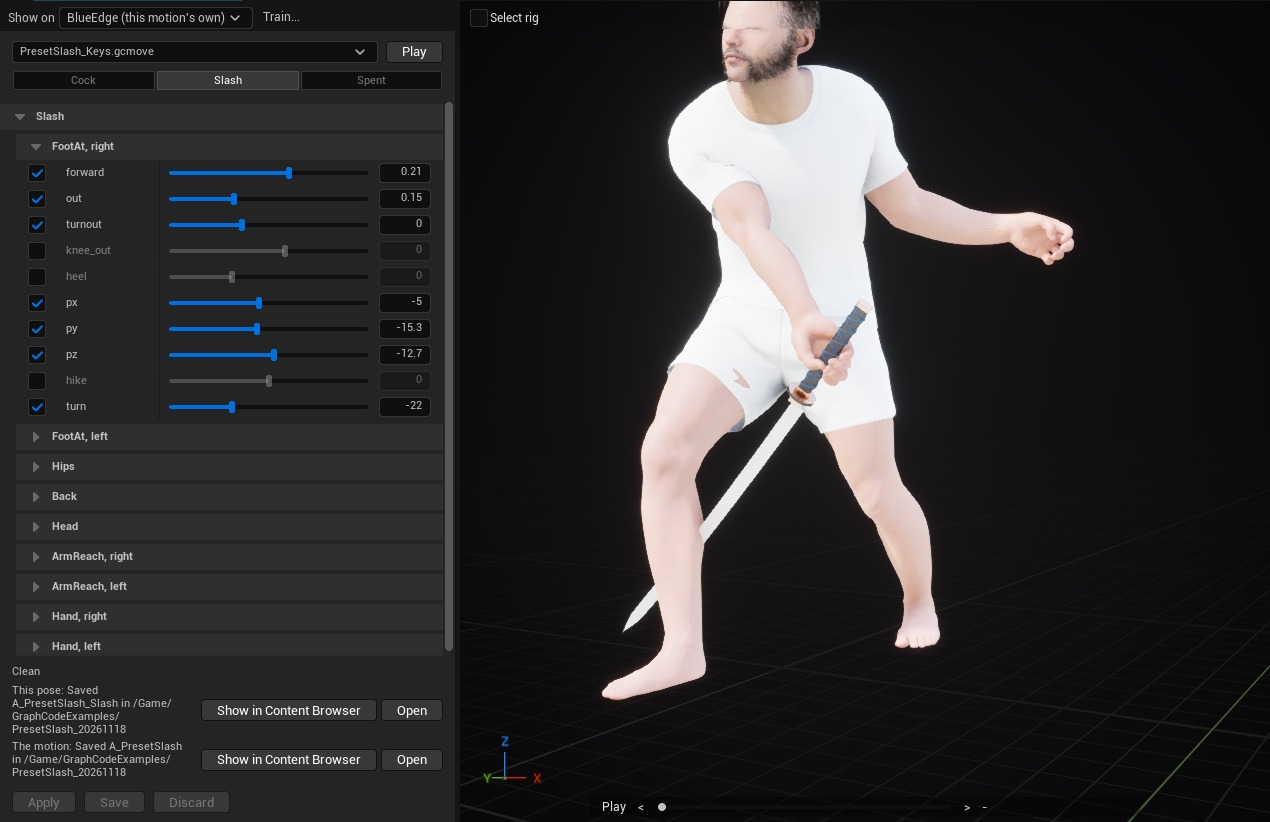
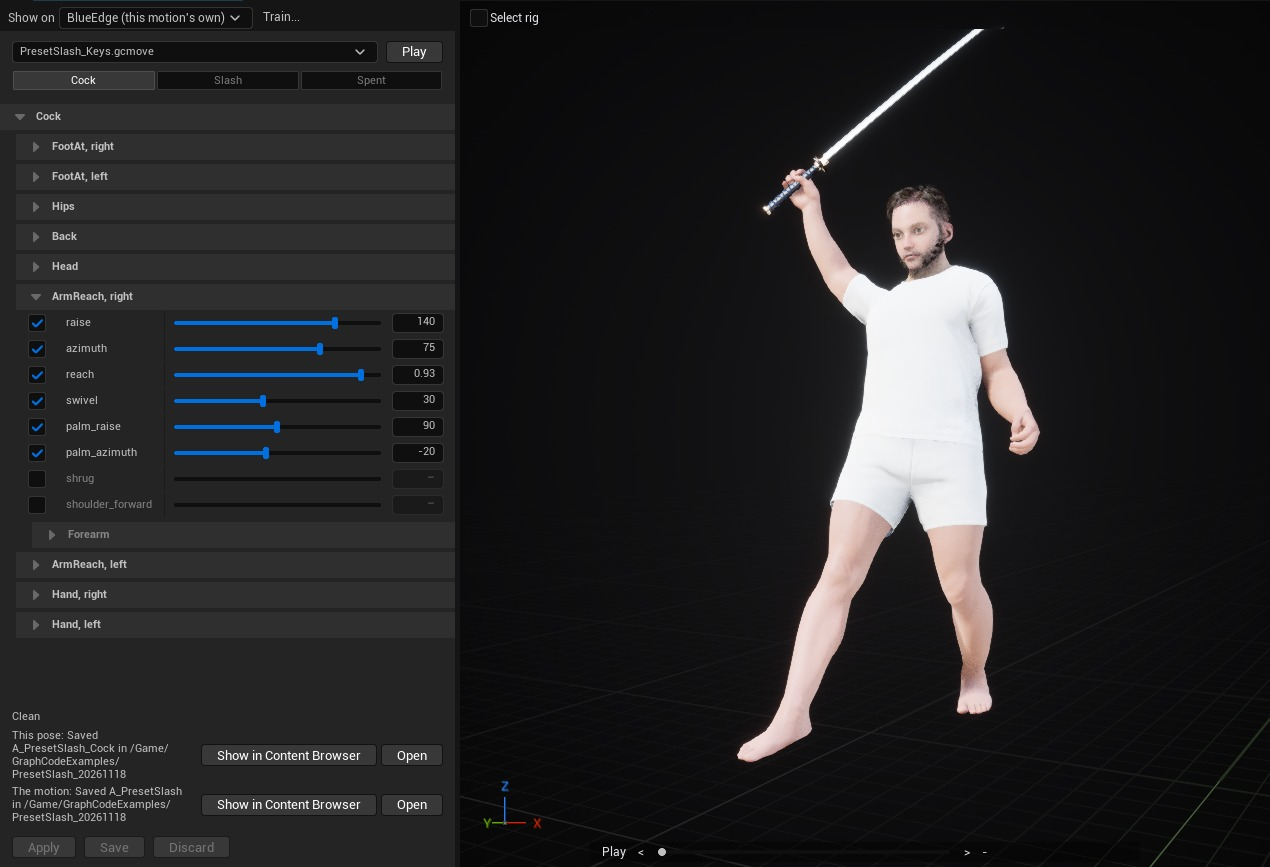
README: better module pictures (river town, airship over the city, street crowd, daylight test run, a cleaner Pose panel), AI-human collaboration on one motion, built in Unreal not imported, problem 7 (remembers your project), history without Git, seven new FAQ answers, accurate packaging line

diff --git a/README.md b/README.md
@@ -43,7 +43,7 @@ it makes real Unreal assets, shows you renders and test runs, and every change c
 |---|---|
 | [Made with GraphCode](#made-with-graphcode) | Things it has built. |
 | [How it works](#how-it-works) | What a session with your AI looks like. |
-| [Why GraphCode](#why-graphcode-what-goes-wrong-when-an-ai-drives-unreal-and-how-graphcode-fixes-it) | The six problems with an AI driving Unreal through a free MCP server or Blender MCP, and how GraphCode fixes each. |
+| [Why GraphCode](#why-graphcode-what-goes-wrong-when-an-ai-drives-unreal-and-how-graphcode-fixes-it) | The seven problems with an AI driving Unreal through a free MCP server or Blender MCP, and how GraphCode fixes each. |
 | [Get started](#get-started) | The setup in five steps, and the full guide. |
 | [What your AI can build](#what-your-ai-can-build) | Each of the ten products: a picture, an example, why it beats the alternative, and everything it can do. |
 | [Trial and licence](#trial-and-licence) · [Trust and privacy](#trust-and-privacy) · [Questions](#questions) | Before you buy. |
@@ -83,8 +83,7 @@ All packs: [docs/MARKET.md](docs/MARKET.md). Case studies with films and samples
 
 ## How it works
 
-1. **You ask** in plain words: *"Put an oval glass dome on the hall."* *"Give the cat a thick grey coat."*
-   *"Add a reload key to the gun and show the ammo on the HUD."*
+1. **You ask** in plain words: *"Put an oval glass dome on the hall."* *"Give the cat a thick grey coat."* The first time, your AI reads your project, asks how hands-on you want to be, and writes your answers down so you never repeat them.
 2. **The AI builds it** inside your Unreal editor, as real assets: Blueprints, levels, meshes,
    materials, animations, effects. It reads the relevant guide first, tries the change before making it,
    then renders it and plays it to check, and fixes what it sees.
@@ -102,7 +101,7 @@ a working Blueprint is not saved, and anything it deletes goes to a trash folder
 You can already connect an AI to Unreal for free: community MCP servers, Epic's own experimental Unreal
 MCP, or Blender MCP with an export to Unreal. They give your AI **verbs**: spawn an
 actor, set a property, add a node, run some Python, take a screenshot. That is enough to block out a
-room. Making a game takes more, and the same six problems come up again and again. Here is each one,
+room. Making a game takes more, and the same seven problems come up again and again. Here is each one,
 why it happens, and what GraphCode does about it.
 
 ### 1. The AI can't see your scene, so every number it types is a guess
@@ -199,6 +198,8 @@ the project's history the way a developer reads Git, and so can you:
   first**: every asset it will restore, recreate or remove. Nothing changes until it's confirmed, and the
   state it replaces is kept, so you can go back again.
 
+You do not need Git for any of this. Local history is on by default, with a size budget for the whole project, so a project that has never had a commit still keeps your recent saves. Versions are named the way you would say them: *"compare the HUD with yesterday 3pm"*, *"what did the level look like at 1am"*, or `HEAD`, a branch or a commit if you do use Git. A restore is planned first: your AI shows every asset it would change, recreate or remove, and nothing happens until you confirm the plan. Local history covers your recent saves and Git covers what you committed, so the two together cover everything.
+
 For a team, the same text makes Git useful for Unreal: pull requests show readable diffs instead of
 "binary file changed", two people's edits to one asset can be merged, and a CI check flags any asset whose
 text is out of date, with no licence needed. You get the same history in the editor: click **GraphCode** in
@@ -242,6 +243,24 @@ stones, and the same line always builds the same wall. Kits share parts: the woo
 the timber kit, the rubble from the concrete and rebar parts. Damage, wear and weathering apply to **your
 own** shapes too, and rocks, cliffs and plants come with PCG graphs that spread them across your level.
 
+**Built inside Unreal, not imported from Blender.** An export carries Blender's metres, its axes and its naming conventions into Unreal, and each mismatch (scale, rotation, mirrored sides, a pivot in the wrong place, `SOCKET_` and `UCX_` dummy objects) is a chance for the mesh to arrive wrong. GraphCode builds the mesh in Unreal, in centimetres and Unreal's own rotations, with sockets, collision and materials declared in the recipe. Nothing is converted on the way in, and a change is a rebuild of the same asset, not a second import.
+
+### 7. It forgets your project between sessions
+
+**What goes wrong.** Monday you tell your AI the game is a moody third-person survival game, that the UI is cold blue, and that nothing is deleted without asking. Tuesday is a new chat. It suggests a cheerful orange HUD, asks again what genre this is, and renames a folder you told it to leave alone. Every session starts from nothing, so the first ten minutes go on re-explaining a game you already explained.
+
+**Why.** An AI has no memory of its own between chats, and Unreal has nowhere to keep the decisions you have made. A free server hands the AI tools but no knowledge of your project.
+
+**How GraphCode fixes it.** Setup is something your AI does with you once. What it learns is written into your project, where every later session reads it first.
+
+- **It looks before it asks.** It reads your `Content/` folder, your enabled plugins, any `CLAUDE.md` or `AGENTS.md`, your Git history and your default map. A project with a half-built shooter is never asked what genre it is: the AI says what it found and you correct it.
+- **It works on the game you already have.** Nothing is rebuilt or moved. Packs you bought or vendored can be left out of GraphCode's readable-text copies by folder, and an excluded folder can still be read, searched and changed.
+- **You choose how hands-on you are, and not as one answer for the whole game.** Approve everything, approve each draft, review at milestones, or let it just do it. Then say what you drive and what the AI drives, separately for **game direction, art direction, mechanics and sound**. *"You do the art, I decide how it plays"* is a normal answer. Where you drive, the AI shows you a render before it places the second wall. Where you handed over, it decides, tells you once and stops asking.
+- **It writes down what you decided.** A small routing file read at the start of every session, one short document each for game, art, mechanics and sound, a board of open work, and a folder for mood-board images. A decision goes in the moment it is made, so a settled question stays settled.
+- **Your rules are enforced, not just written.** Where your AI client has a real settings layer (Claude Code's permission rules and hooks, for example), setup writes your rules there too, so "never delete without asking" is applied by the client.
+
+The next session, and the one after, opens with your AI already knowing the game.
+
 **At a glance:**
 
 | Your AI needs to… | With a free MCP server | With GraphCode |
@@ -252,6 +271,8 @@ own** shapes too, and rocks, cliffs and plants come with PCG graphs that spread 
 | **Know it worked** | A screenshot, usually. | Renders, video, layout reports, loudness, play-tests and numbers from every build. |
 | **Go back** | Unreal's undo, and Git, where binary assets don't diff. | Every version compared and restored, one asset or the whole project, to any moment. |
 | **Make real content** | Script it from scratch, one asset at a time. | Recipes for terrain, meshes, motion, rigs, hair and clothing, and ready-made kits. |
+| **Bring a model in** | Export an FBX from Blender, then fix scale, axes, pivot, sockets and collision by naming convention. | Built in Unreal in centimetres and Unreal's own rotations; sockets, collision and materials declared in the recipe; change it and rebuild in place. |
+| **Remember your project** | Nothing. Each new chat starts from zero. | Your choices, art direction and rules are written into your project, and every session reads them first. |
 
 ### Why more tools don't close the gap
 
@@ -288,9 +309,7 @@ on that foundation:
   not on a tool list.
 - **Secure.** Only programs on your PC can reach the editor, web pages are refused, releases are signed, and
   GraphCode never calls an AI provider.
-- **Yours, in plain Unreal.** Everything it makes is ordinary Unreal content that opens, builds and ships
-  without GraphCode. Blueprint-only projects work, no compiler needed, and you can switch AI clients
-  whenever you like.
+- **Yours, in plain Unreal.** Everything it makes is ordinary Unreal content that opens, builds and packages like anything else in your project. Almost all of GraphCode is editor-only, and the few small runtime pieces that ship are checked in Development and Shipping packaging with every release. Blueprint-only projects work, no compiler needed, and you can switch AI clients whenever you like.
 
 ## Get started
 
@@ -306,8 +325,7 @@ on that foundation:
    nothing to confirm by email.
 4. **Connect your AI:** give your AI client the `unreal` entry from your project's
    `Saved\UnrealAIBridge\mcp-config.json`. Ask it *"Run unreal_info"*: it should answer **CONNECTED**.
-5. **Ask:** *"Read Plugins/GraphCode/SETUP.md and set up this project for GraphCode."* It looks at your
-   project, asks how involved you want to be, and builds a first thing so you see it working.
+5. **Ask:** *"Read Plugins/GraphCode/SETUP.md and set up this project for GraphCode."* It reads your existing project first, asks how hands-on you want to be (for game, art, mechanics and sound separately), saves what you decide in your project, and builds a first thing so you see it working.
 
 **[The full setup guide](docs/SETUP.md)**: what you see at each step, how to tell it worked, where the
 file goes for each AI client, and what to do if something goes wrong.
@@ -386,7 +404,7 @@ Only with GraphCode Core:
 
 Whole places, at real scale: the land, the water, what grows on it and how characters cross it.
 
-<p><img src="docs/media/world-terrain.gif" alt="Flying through a valley with a waterfall, a pool, cliffs and plants" width="100%"></p>
+<p><img src="docs/media/world-river.gif" alt="A stream carved through a town of glass domes, towers and lit windows" width="100%"></p>
 
 **How it goes:** *"A wooded valley with a waterfall into a pool, cliffs on both sides."* The AI shapes the
 terrain, carves the riverbed, adds the water and plants the slopes, then renders it from several
@@ -433,7 +451,7 @@ Only with GraphCode World:
 
 The things in your world, modelled part by part from measurements, so they stay editable.
 
-<p><img src="docs/media/airship.gif" alt="An 18 metre airship with a gondola, engines and propellers turning on a turntable" width="100%"></p>
+<p><img src="docs/media/shape-airship-city.gif" alt="An 18 metre airship with a glazed gondola and propellers flying over a city" width="100%"></p>
 
 **How it goes:** *"An 18 metre airship with a glazed bridge and four engines."* The AI models the hull,
 gondola, engines and propellers, each with its own material, and renders it turning. Then: *"Make it
@@ -459,6 +477,23 @@ PropellerRadius = 90
 - **How GraphCode Shape solves it:** the gears are spaced by their tooth counts, so any pair meshes at any
   size; *smaller* is one number at the top of the recipe, and the build reports any teeth that pass through
   each other. Each mesh comes out game-ready, and the same text always builds the same mesh.
+
+**Built inside Unreal, not imported from it.** A model made in Blender carries Blender's habits with it: metres, a different up axis, its own idea of which side is left, and naming tricks Unreal has to decode on import. GraphCode Shape builds the mesh in Unreal, in Unreal's own terms, so there is nothing to convert on the way in.
+
+| Problem with the Blender-to-Unreal route | Why it happens | In GraphCode Shape |
+|---|---|---|
+| **Wrong size.** The prop arrives 100x too small or too big. | Blender works in metres, Unreal in centimetres. | A recipe is written in centimetres. There is no export step to apply a unit scale in. |
+| **Wrong way round.** Parts arrive turned 90 degrees or facing backwards. | The two programs disagree about which axis is up and which way is forward. | Turns are Unreal's own roll, pitch and yaw (`rotate=(roll, pitch, yaw)`), and a socket is declared with the direction it faces and which way is up, in Unreal's frame. |
+| **Left and right swap.** The mirrored half is not the half you meant. | A mirror is applied in whatever frame the exporter chose. | `add($Half, mirror=Y)` reflects the part in its own frame, and the build's left/right note says where the two sides differ. |
+| **Wrong pivot.** The sword spins about its middle, not its grip. | The origin is wherever the modeller left it. | The pivot is stated in the recipe (`[pivot=(0, 0, 0)]`), and a held prop's origin sits at its grip. |
+| **Attachment points by name.** Dummy objects called `SOCKET_Hand`, with parts hand-placed on them. | Epic's FBX pipeline reads sockets from objects with a `SOCKET_` prefix ([Epic's FBX static mesh pipeline](https://dev.epicgames.com/documentation/en-us/unreal-engine/fbx-static-mesh-pipeline-in-unreal-engine)). | Declare a `socket(...)` and join a part with `into=$body.Socket`; the build reports the joint as touching, gapped or overlapping. |
+| **Collision by naming.** Extra meshes called `UCX_` or `UBX_` that must match the visible one. | The same pipeline reads collision from objects with those prefixes. | One line on the build: `[collision=$Solid]`. A build without it says so. |
+| **Wrong shading.** Hard edges look soft, or the reverse. | Smoothing does not always survive the export. | The recipe states the angle above which an edge shades hard (`shade:`). |
+| **A look that does not transfer.** It looked right in Eevee or Cycles, not in your game. | Those are not Unreal's renderer. | Materials are Unreal materials bound to the mesh's slots, and the AI checks them in the editor's own renderer while it builds. |
+| **No light version.** Mobile, VR and distant LODs are another round of work. | Baking is a separate job in a separate app. | `SM_X5k = $X [triangles=5000, maps=(normal, ao, curvature)]` makes a light mesh with its normal and AO maps baked from the full detail. |
+| **Every change is a re-import.** | The mesh is a finished file, not a recipe. | Change the recipe and rebuild: the same asset updates in place, and the same recipe always builds the same mesh. |
+
+The AI never leaves Unreal, so there is no unit, axis or naming mistake to find afterwards.
 
 Only with GraphCode Shape:
 - Parts sized from named measurements: change one number and every part built from it follows.
@@ -511,6 +546,16 @@ open it in the **Pose** panel and adjust it yourself:
    **Discard** throws the trial away.
 5. **Hand it back.** Your AI picks up from your values: *"Keep my slash pose, make the follow-through
    heavier."*
+
+**Working together on one motion:**
+
+| You | Your AI |
+|---|---|
+| *"A two-handed sword slash: wind up over the right shoulder, cut down across, follow through."* | Builds the three key poses (wind-up, cut, follow-through) from body-part presets, keeps the feet planted and both hands on the grip, and shows you the motion. |
+| Open it in the Pose panel. The wind-up feels low: raise the right arm, press **Apply** and watch it. | |
+| Press **Save**. | Reads your values from the same file and carries on: *"Keep my wind-up, make the follow-through heavier."* |
+
+Nothing is exported, nobody overwrites anybody: you and your AI edit the same motion, and every save is a version either of you can go back to.
 
 <table><tr>
 <td width="50%"><img src="docs/media/move-portal.gif" alt="A glowing blue portal opening in a night street"><br><sub>Effects built as timed layers: a portal opening.</sub></td>
@@ -668,10 +713,10 @@ Only with GraphCode Garment:
 
 People: as many as your game needs, each one different.
 
-<p><img src="docs/media/ext-cast.jpg" alt="Nine different MetaHuman characters in different clothes, standing in two rows" width="100%"></p>
+<p><img src="docs/media/ext-crowd.jpg" alt="A crowd of different people moving down a sunlit street in a game" width="100%"></p>
 
 **How it goes:** *"Nine different townspeople for the street."* The AI blends faces and bodies, chooses
-hair and clothes, assembles each one as a playable character and lines them up for you to look at.
+hair and clothes, assembles each one as a playable character and puts them into the scene.
 Then: *"Make the third one older and heavier."*
 
 
@@ -703,7 +748,7 @@ Only with GraphCode Core Extension:
 
 Your AI plays the game for you, and shows you what happened.
 
-<p><img src="docs/media/play-run.gif" alt="A night street in a running game: a zombie walks past a parked van" width="100%"></p>
+<p><img src="docs/media/play-yard.jpg" alt="A sunlit street in the running game, captured during a test run" width="100%"></p>
 
 **How it goes:** *"Zombie hands go through my character. Fix it and prove it."* The AI plays the scene,
 measures every swipe, fixes it, plays again and gives you the before and after, with screenshots from
@@ -827,10 +872,32 @@ No. You bring the AI you already use (Claude Code, Codex, Cursor or any MCP clie
 subscription. GraphCode is what lets that AI build inside Unreal Engine.
 </details>
 
+<details><summary><b>Does it work on my existing project?</b></summary>
+
+Yes. You copy the plugins in and turn them on; nothing in your project is rebuilt or moved. On first setup your AI reads what is already there (your content, plugins, Git history and any agent notes) before it asks you anything, and it asks only what the project cannot answer. Packs you bought can be left out of GraphCode's readable-text copies by folder, and those folders stay fully readable to your AI.
+</details>
+
+<details><summary><b>Does it cost me AI tokens?</b></summary>
+
+GraphCode adds no AI charge: it never calls an AI provider, and the AI you already use bills you as it always does. It is also built to be light on your AI. There are 15 tools, not hundreds, and each one explains itself on demand, so your AI's attention goes on your game and not on a tool list. Reading a whole Blueprint or level as one text and changing it in one step also takes fewer calls than wiring it node by node.
+</details>
+
 <details><summary><b>Does my project leave my computer?</b></summary>
 
 Not through GraphCode. It only contacts our servers to check your licence, offer updates and download
 Market packs, with no project content. Your AI client sends what it reads to the AI provider you chose.
+</details>
+
+<details><summary><b>Is it closed source? Can I trust it?</b></summary>
+
+The plugin binaries are closed source, and everything you need to check them is public. Every release is signed, every file has a published checksum, and a [script](tools/Verify-GraphCodeRelease.ps1) verifies a download on your PC and sends nothing anywhere. The in-editor updater runs the same checks and deletes a download that fails; nothing installs until you click.
+
+The tool server in your editor answers only programs on your own PC, and it refuses any request that comes from a web page. GraphCode never calls an AI provider and sends no usage data: the only traffic is licence checks, update checks and Market downloads, all listed in [Trust and privacy](#trust-and-privacy). Every public header, guide and example is in this repository, and the [security policy](SECURITY.md) and [threat model](docs/STUDIOS.md#threat-model-who-can-talk-to-the-editor) say exactly who can talk to the editor and what they can do.
+</details>
+
+<details><summary><b>What if GraphCode disappears, or the licence server is down?</b></summary>
+
+Everything you already made is ordinary Unreal content and stays yours. It opens, builds and ships without contacting us. Reading, searching, rendering and all normal editor work carry on, and your recipe files (`.gcshape`, `.gcmove`, `.gcrig` and the rest) are plain text in your own repository. Only AI-driven writes need a token from our licence server; they pause with a message saying so and resume as soon as it is reachable. Every release stays downloadable, so you can keep running the version you have.
 </details>
 
 <details><summary><b>What if the AI gets something wrong?</b></summary>
@@ -841,8 +908,17 @@ folder, and a change that would break a working Blueprint is never saved.
 
 <details><summary><b>Can I use what it makes in a commercial game?</b></summary>
 
-Yes. Everything you make is yours, and it is ordinary Unreal content that needs nothing from GraphCode
-to open, build or ship.
+Yes. Everything you make is yours, and it is ordinary Unreal content: Blueprints, materials, meshes, animations, Niagara systems. It opens in any Unreal editor, builds with the normal Unreal tools and packages like the rest of your game. Almost all of GraphCode is editor-only and stays out of your game, and every release is checked by packaging and launching Development and Shipping games with GraphCode installed.
+</details>
+
+<details><summary><b>Can I sell what I make on Fab?</b></summary>
+
+What GraphCode makes is ordinary Unreal content, and it is yours to sell. A listing on Fab is subject to Fab's own rules, including its policy on AI-generated content, so tag and describe your assets as that policy asks when you publish them.
+</details>
+
+<details><summary><b>Will it replace my artists?</b></summary>
+
+No. The AI authors and your people direct. You say what you want, and your artist fine-tunes it on the very asset the AI made: the **Pose** panel for motion, **Version Control** to compare and restore, and a readable diff of every change the AI makes, to review before it goes in. You choose how hands-on you are separately for game direction, art direction, mechanics and sound, so an art lead can own the look while the AI builds it.
 </details>
 
 <details><summary><b>Does it work offline?</b></summary>
@@ -854,6 +930,11 @@ server, so it needs a connection.
 <details><summary><b>Which Unreal versions and platforms?</b></summary>
 
 Unreal Engine 5.7.4 on Windows 64-bit. Each new engine version comes with a matching GraphCode release.
+</details>
+
+<details><summary><b>What happens when Unreal 5.8 comes out?</b></summary>
+
+Each GraphCode release targets one exact engine build, and a new engine version comes with a matching GraphCode release. Until you move, nothing changes: updates never install without a person clicking, you can turn the automatic check off, and every release stays downloadable with its signature and checksums, so you can stay on the version that matches your engine.
 </details>
 
 <details><summary><b>Does it work for a team?</b></summary>
